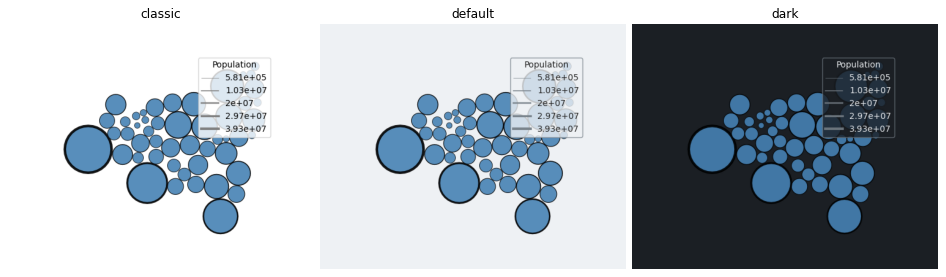
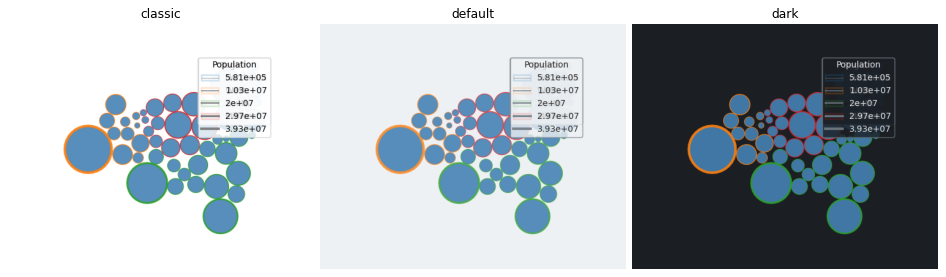
Update overlay colors page

diff --git a/plot-style-overlays/index.html b/plot-style-overlays/index.html
@@ -84,7 +84,7 @@
 <dt>Base</dt><dd>main</dd>
 <dt>Created</dt><dd>2026-10-16 20:00</dd>
 <dt>Before</dt><dd>main @ 3055caa</dd>
-<dt>After</dt><dd>feat/plot-style-overlays @ c8fe15c</dd>
+<dt>After</dt><dd>feat/plot-style-overlays @ b719626</dd>
 <dt>Inputs</dt><dd>bundled US states; a population-weighted Voronoi cartogram (RasterBackend 256, 100 iterations); a circle-packing symbol cartogram.</dd>
 </dl>
 <p class="desc">PlotStyle gets series_color, accent_color, positive_color and highlight_color for the fixed colors of the diagnostic overlays of the Voronoi and symbol plots. Default and dark set them; classic keeps the former colors.</p>
@@ -97,7 +97,7 @@
 <tr><td>style fields</td><td><code>series_color</code>, <code>accent_color</code>, <code>positive_color</code>, <code>highlight_color</code>, <code>PlotStyle.pick(name, default)</code></td></tr>
 <tr><td>Voronoi</td><td>convergence, displacement, topology, repair plots and the history animation</td></tr>
 <tr><td>symbol</td><td>the key of the line-width legend, displacement arrows, adjacency nodes, pool tiles of <code>plot_tiling</code> (<code>core_edgecolor</code>, <code>ring_edgecolor</code> default to the style)</td></tr>
-<tr><td>flow</td><td><code>VelocityPlotOptions.color</code> defaults to None (the accent color of the style, white in classic); the reference lines of the workflow convergence plot use the axes edge color</td></tr>
+<tr><td>flow</td><td><code>VelocityPlotOptions.color</code> defaults to None (the accent color of the style; black on the bare axes and white over a density image in classic); the reference lines of the workflow convergence plot use the axes edge color</td></tr>
 <tr><td>not yet</td><td>the fixed colors of the density and field image overlays beyond these</td></tr>
 </table>
 <h2>Checks</h2>
@@ -109,8 +109,8 @@
 <img src="fig_convergence.png" alt="Convergence curve (series color) and final value (accent color).">
 <p class="caption">Convergence curve (series color) and final value (accent color).</p>
 </div><div class="figure">
-<img src="fig_linewidth_legend.png" alt="The key of the line-width legend takes the axes edge color.">
-<p class="caption">The key of the line-width legend takes the axes edge color.</p>
+<img src="fig_linewidth_legend.png" alt="Edge by region and line width by population: the keys of the line-width legend take the axes edge color.">
+<p class="caption">Edge by region and line width by population: the keys of the line-width legend take the axes edge color.</p>
 </div><div class="figure">
 <img src="fig_symbol_displacement.png" alt="Displacement arrows use the accent color (yellow in dark, for contrast with the blue circles).">
 <p class="caption">Displacement arrows use the accent color (yellow in dark, for contrast with the blue circles).</p>
@@ -118,8 +118,8 @@
 <img src="fig_topology.png" alt="Satellite cells use the highlight color; the base cells use the reference layer.">
 <p class="caption">Satellite cells use the highlight color; the base cells use the reference layer.</p>
 </div><div class="figure">
-<img src="fig_velocity.png" alt="`plot_velocity_field`: the arrows take the accent color (they were white, invisible on the plot surface).">
-<p class="caption"><code>plot_velocity_field</code>: the arrows take the accent color (they were white, invisible on the plot surface).</p>
+<img src="fig_velocity.png" alt="`plot_velocity_field`: the arrows take the accent color; classic draws them black (they were white on the white axes, invisible).">
+<p class="caption"><code>plot_velocity_field</code>: the arrows take the accent color; classic draws them black (they were white on the white axes, invisible).</p>
 </div><div class="figure">
 <img src="fig_voronoi_displacement.png" alt="Base cells use the reference fill and the axes edge color; targets use the accent color, centroids the series color.">
 <p class="caption">Base cells use the reference fill and the axes edge color; targets use the accent color, centroids the series color.</p>

diff --git a/plot-style-overlays/make_figures.py b/plot-style-overlays/make_figures.py
@@ -68,4 +68,4 @@ flow_result = flow.create_flow_cartogram(
     states, "Population", options=flow.MorphOptions(grid=64, n_iter=30, save_internals=True, show_progress=False)
 )
 row("fig_velocity.png", lambda s: plot_velocity_field(flow_result, style=s).ax.figure)
-row("fig_linewidth_legend.png", lambda s: circles.plot(linewidth="Population", edgecolor="black", style=s).ax.figure)
+row("fig_linewidth_legend.png", lambda s: circles.plot(edgecolor="Region", linewidth="Population", legend=False, style=s).ax.figure)

diff --git a/plot-style-overlays/summary.md b/plot-style-overlays/summary.md
@@ -11,7 +11,7 @@ base: main
 date: 2026-10-16 20:00
 related: plot-style-symbol, plot-style-voronoi-proportional, style-system
 before: main @ 3055caa
-after: feat/plot-style-overlays @ c8fe15c
+after: feat/plot-style-overlays @ b719626
 inputs: bundled US states; a population-weighted Voronoi cartogram (RasterBackend 256, 100 iterations); a circle-packing symbol cartogram.
 ---
 
@@ -28,8 +28,8 @@ figure: fig_topology.png — Satellite cells use the highlight color; the base c
 figure: fig_symbol_displacement.png — Displacement arrows use the accent color (yellow in dark, for contrast with the blue circles).
 figure: fig_adjacency_nodes.png — Nodes use the text color of the style.
 
-figure: fig_velocity.png — `plot_velocity_field`: the arrows take the accent color (they were white, invisible on the plot surface).
-figure: fig_linewidth_legend.png — The key of the line-width legend takes the axes edge color.
+figure: fig_velocity.png — `plot_velocity_field`: the arrows take the accent color; classic draws them black (they were white on the white axes, invisible).
+figure: fig_linewidth_legend.png — Edge by region and line width by population: the keys of the line-width legend take the axes edge color.
 
 ## What changes
 
@@ -38,7 +38,7 @@ figure: fig_linewidth_legend.png — The key of the line-width legend takes the 
 | style fields | `series_color`, `accent_color`, `positive_color`, `highlight_color`, `PlotStyle.pick(name, default)` |
 | Voronoi | convergence, displacement, topology, repair plots and the history animation |
 | symbol | the key of the line-width legend, displacement arrows, adjacency nodes, pool tiles of `plot_tiling` (`core_edgecolor`, `ring_edgecolor` default to the style) |
-| flow | `VelocityPlotOptions.color` defaults to None (the accent color of the style, white in classic); the reference lines of the workflow convergence plot use the axes edge color |
+| flow | `VelocityPlotOptions.color` defaults to None (the accent color of the style; black on the bare axes and white over a density image in classic); the reference lines of the workflow convergence plot use the axes edge color |
 | not yet | the fixed colors of the density and field image overlays beyond these |
 
 ## Checks
